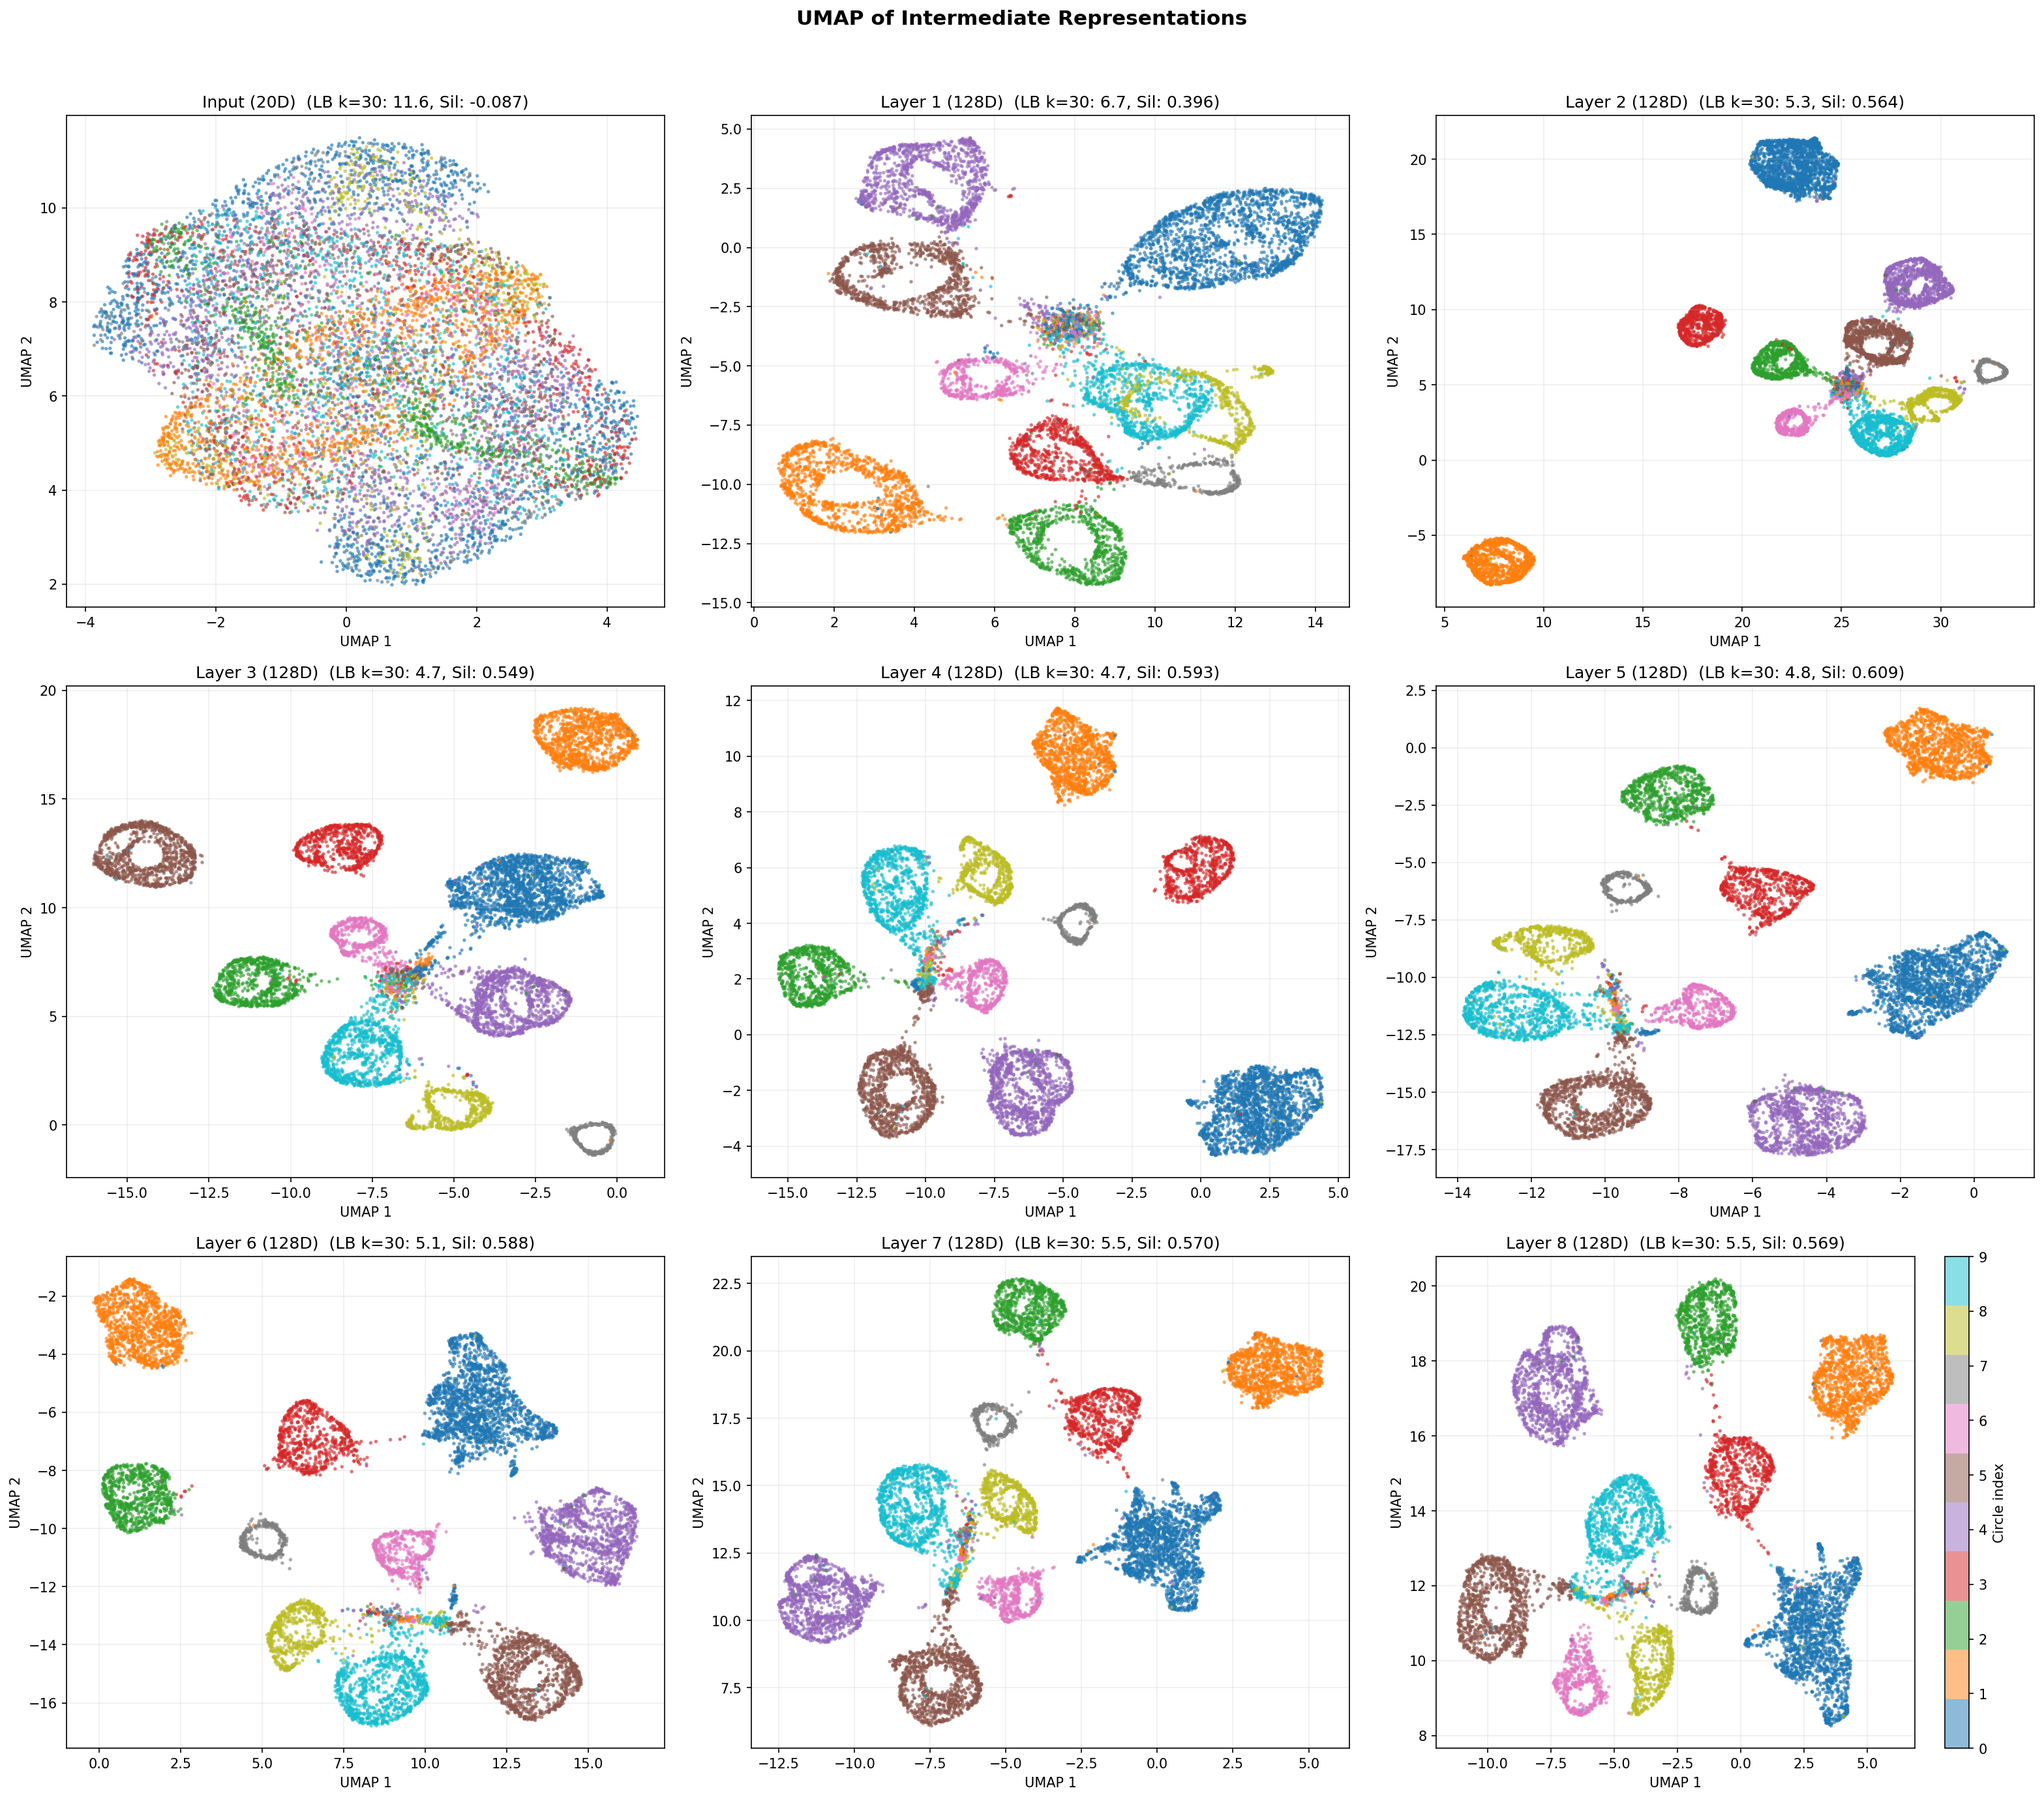
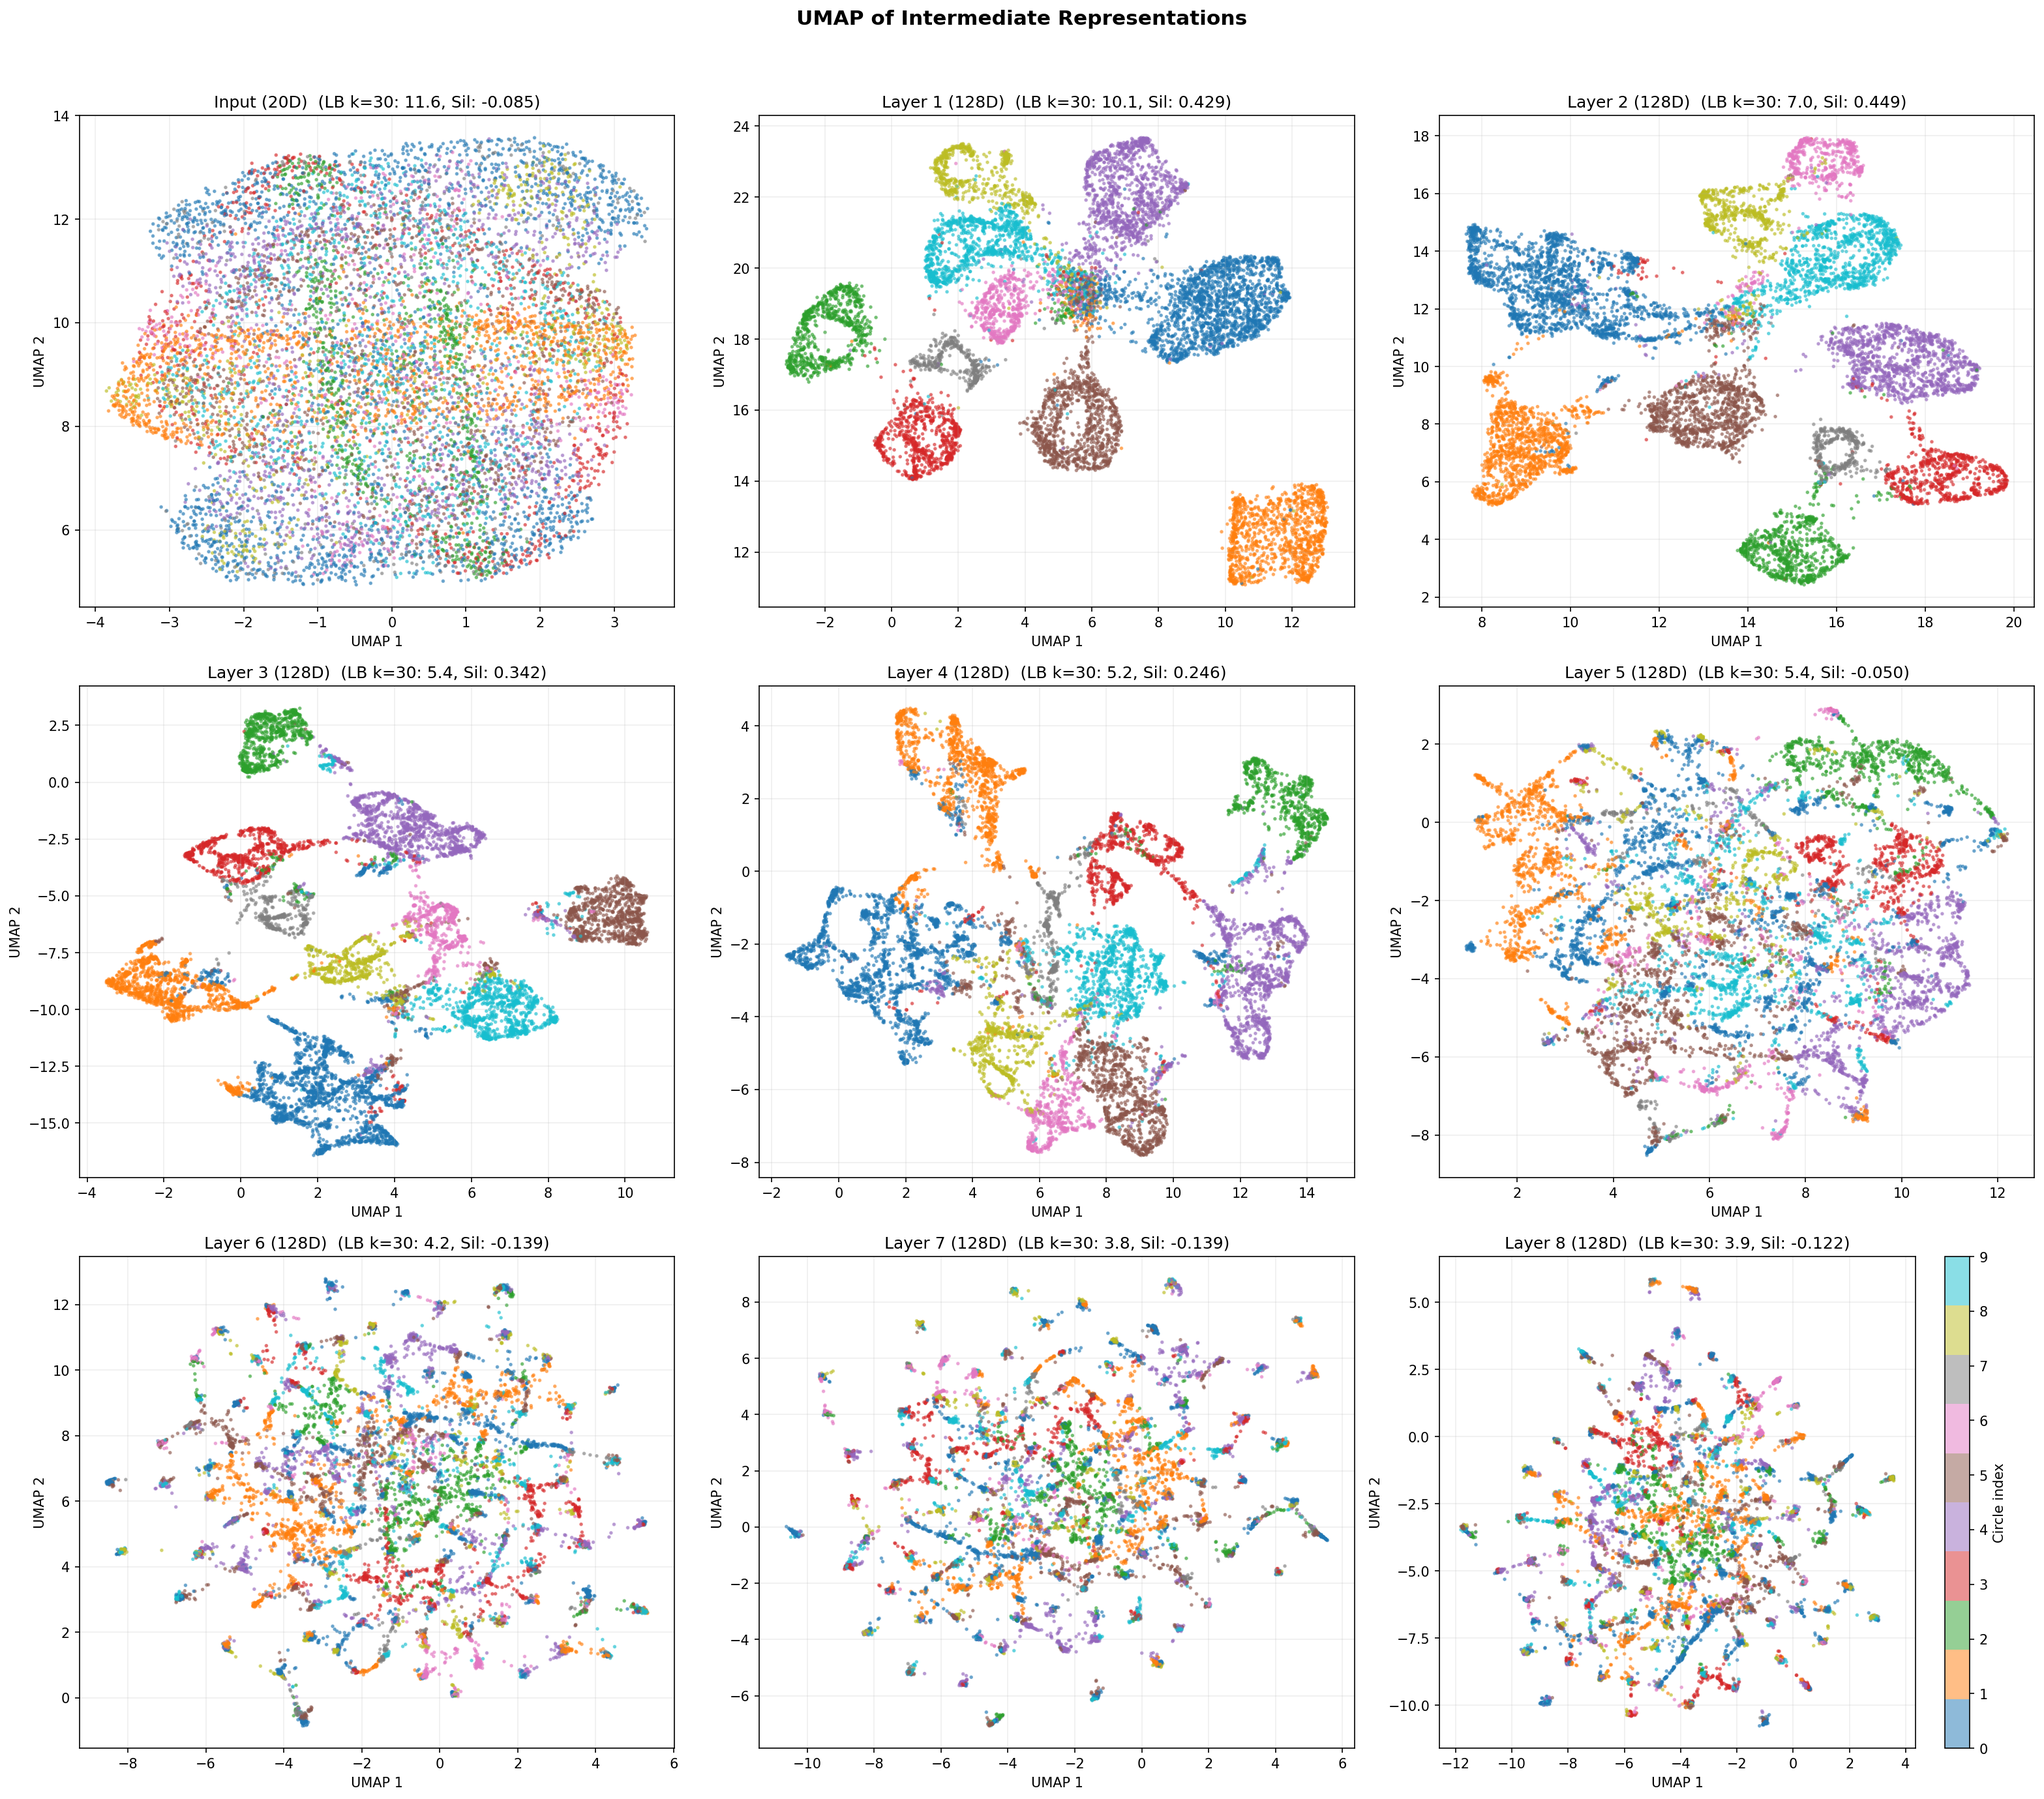
Add homeostatic pre-activation regularization to prevent overspecialization
L2 penalty on pre-norm hidden states at each Mamba layer boundary,
enabled via --preact-lambda flag. Includes README documentation of
the technique and updated UMAP from the 3000-epoch overtraining run.

Made-with: Cursor

diff --git a/mamba_jepa.py b/mamba_jepa.py
@@ -92,17 +92,29 @@ class MambaEncoder(nn.Module):
         outputs (including final norm) instead of just the final output.
         """
         h = self.input_dropout(self.input_proj(x))
+        self._cached_hiddens = []
         if not return_all_layers:
             for layer in self.layers:
                 h = layer(h)
+                self._cached_hiddens.append(h)
             return self.final_norm(h)
 
         outputs = []
         for layer, norm in zip(self.layers, self.layer_norms):
             h = layer(h)
+            self._cached_hiddens.append(h)
             outputs.append(norm(h))
         outputs.append(self.final_norm(h))
         return outputs
+
+    def homeostatic_loss(self):
+        """L2 penalty on pre-norm hidden states at each layer boundary."""
+        if not self._cached_hiddens:
+            return torch.tensor(0.0)
+        total = 0.0
+        for h in self._cached_hiddens:
+            total = total + h.pow(2).mean()
+        return total / len(self._cached_hiddens)
 
     @torch.no_grad()
     def forward_layers(self, x):
@@ -184,17 +196,29 @@ class ConvBranch(nn.Module):
             h = self.conv(h)
             h = h.transpose(1, 2)
 
+        self._cached_hiddens = []
         if not return_all_layers:
             for layer in self.layers:
                 h = layer(h)
+                self._cached_hiddens.append(h)
             return self._upsample(self.norm(h), T_orig)
 
         outputs = []
         for layer, ln in zip(self.layers, self.layer_norms):
             h = layer(h)
+            self._cached_hiddens.append(h)
             outputs.append(self._upsample(ln(h), T_orig))
         outputs.append(self._upsample(self.norm(h), T_orig))
         return outputs
+
+    def homeostatic_loss(self):
+        """L2 penalty on pre-norm hidden states at each layer boundary."""
+        if not self._cached_hiddens:
+            return torch.tensor(0.0)
+        total = 0.0
+        for h in self._cached_hiddens:
+            total = total + h.pow(2).mean()
+        return total / len(self._cached_hiddens)
 
     @torch.no_grad()
     def forward_layers(self, x):
@@ -273,6 +297,13 @@ class MultiScaleEncoder(nn.Module):
             fused = self.fusion(torch.cat(parts, dim=-1))
             outputs.append(fused)
         return outputs
+
+    def homeostatic_loss(self):
+        """Aggregate homeostatic loss from all branches."""
+        total = 0.0
+        for branch in self.branches:
+            total = total + branch.homeostatic_loss()
+        return total / len(self.branches)
 
     @torch.no_grad()
     def forward_layers(self, x):
@@ -487,6 +518,10 @@ class CausalMambaJEPA(nn.Module):
 
         return per_layer_preds, per_layer_targets
 
+    def homeostatic_loss(self):
+        """L2 penalty on context encoder's pre-norm hidden states."""
+        return self.context_encoder.homeostatic_loss()
+
     @torch.no_grad()
     def update_target_encoder(self, momentum):
         """EMA update: θ_target = τ · θ_target + (1 − τ) · θ_context"""
@@ -539,9 +574,10 @@ def momentum_schedule(epoch, n_epochs, base_momentum=0.996):
 # ---------------------------------------------------------------------------
 
 def train_one_epoch(model, loader, optimizer, scaler, device, amp_dtype,
-                    momentum):
+                    momentum, preact_lambda=0.0):
     model.train()
     total_loss = 0.0
+    total_homeo = 0.0
     n_batches = 0
 
     for x, _state, _mask in loader:
@@ -551,6 +587,12 @@ def train_one_epoch(model, loader, optimizer, scaler, device, amp_dtype,
             pred_reps, target_reps = model(x)
             result = jepa_loss(pred_reps, target_reps)
             loss = result[0] if isinstance(result, tuple) else result
+
+            if preact_lambda > 0:
+                raw = model._orig_mod if hasattr(model, '_orig_mod') else model
+                homeo = raw.homeostatic_loss()
+                loss = loss + preact_lambda * homeo
+                total_homeo += homeo.item()
 
         optimizer.zero_grad(set_to_none=True)
         scaler.scale(loss).backward()
@@ -566,7 +608,10 @@ def train_one_epoch(model, loader, optimizer, scaler, device, amp_dtype,
         total_loss += loss.item()
         n_batches += 1
 
-    return total_loss / max(n_batches, 1)
+    n = max(n_batches, 1)
+    if preact_lambda > 0:
+        return total_loss / n, total_homeo / n
+    return total_loss / n
 
 
 @torch.no_grad()
@@ -715,6 +760,11 @@ def main():
                              'Defaults to --n-layers for each branch.')
     parser.add_argument('--kernel-factor', type=int, default=2,
                         help='Conv kernel = kernel_factor × stride')
+    # Regularization
+    parser.add_argument('--preact-lambda', type=float, default=0.0,
+                        help='Homeostatic pre-activation L2 penalty strength '
+                             '(0 = disabled).  Penalizes hidden state magnitudes '
+                             'at each layer boundary to prevent overspecialization.')
     # EMA
     parser.add_argument('--ema-base', type=float, default=0.996,
                         help='Base EMA momentum (annealed to 1.0 via cosine)')
@@ -860,6 +910,8 @@ def main():
     print(f"  d_model={args.d_model}, d_state={args.d_state}, "
           f"d_conv={args.d_conv}, expand={args.expand}")
     print(f"  EMA base momentum: {args.ema_base}")
+    if args.preact_lambda > 0:
+        print(f"  Homeostatic pre-activation penalty: λ={args.preact_lambda}")
 
     # ---- torch.compile ----
     if not args.no_compile and device.type == 'cuda':
@@ -925,15 +977,24 @@ def main():
               f"{'TgtStd':<8} {'LR':<12} {'Mom':<8} {'Time':<8} {'Best'}")
     if args.per_layer_loss:
         header += "  Per-layer val losses"
+    if args.preact_lambda > 0:
+        header += "  Homeo"
     print(f"\n{header}")
-    print('-' * (90 + (30 if args.per_layer_loss else 0)))
+    print('-' * (90 + (30 if args.per_layer_loss else 0)
+                 + (8 if args.preact_lambda > 0 else 0)))
 
     for epoch in range(1, args.epochs + 1):
         t0 = time.perf_counter()
 
         mom = momentum_schedule(epoch, args.epochs, args.ema_base)
-        train_loss = train_one_epoch(
-            model, train_loader, optimizer, scaler, device, amp_dtype, mom)
+        train_result = train_one_epoch(
+            model, train_loader, optimizer, scaler, device, amp_dtype, mom,
+            preact_lambda=args.preact_lambda)
+        if isinstance(train_result, tuple):
+            train_loss, homeo_loss = train_result
+        else:
+            train_loss, homeo_loss = train_result, None
+
         eval_result = evaluate(model, val_loader, device, amp_dtype)
         val_loss, cos_sim, tgt_std = eval_result[:3]
         per_layer_val = eval_result[3] if len(eval_result) > 3 else None
@@ -983,6 +1044,8 @@ def main():
             if per_layer_val is not None:
                 layer_str = '  [' + ', '.join(f'{v:.4f}' for v in per_layer_val) + ']'
                 line += layer_str
+            if homeo_loss is not None:
+                line += f'  {homeo_loss:.4f}'
             print(line)
 
         if epoch % plot_every == 0 or epoch == args.epochs:

diff --git a/README.md b/README.md
@@ -391,6 +391,44 @@ python mamba_jepa.py --per-layer-loss --predictor-mlp --epochs 1000 --no-compile
 python evaluate_representations.py --checkpoint mamba_jepa_model.pt
 ```
 
+## Homeostatic Pre-Activation Regularization
+
+Extended training (e.g. 3000 epochs) causes representation **overspecialization**: the UMAP clusters collapse into stringy, tangled manifolds and silhouette scores degrade sharply (0.609 → 0.449 at Layer 2). The model overfits its temporal prediction objective at the expense of representational structure.
+
+To combat this, we implement a **homeostatic pre-activation penalty** adapted from continual learning research. The idea is to add an L2 penalty on the hidden states at each layer boundary (before LayerNorm), driving the network toward a low-magnitude resting state:
+
+```
+L_total = L_JEPA + λ * L_homeo
+
+L_homeo = (1/L) Σ_l mean(h_l²)
+```
+
+where `h_l` is the hidden state after the `l`-th Mamba layer (before LayerNorm), and `L` is the number of layers.
+
+### Why pre-activation (not weights or post-norm)?
+
+- **Weight decay** shrinks weights globally without regard to activation magnitudes.
+- **Post-norm penalties** miss the information about how far the raw activations drift.
+- **Pre-activation penalties** directly constrain the residual stream magnitude, preventing the hidden states from drifting to extreme values over long training. The gradient is bidirectional: strongly positive activations are pushed down, strongly negative ones are pushed up, and near-zero activations receive minimal gradient.
+
+### Usage
+
+```bash
+# Enable with --preact-lambda (default 0 = disabled)
+python mamba_jepa.py --strides 4 --predictor-mlp --epochs 1000 \
+    --no-compile --stride 32 --seq-len 1024 --preact-lambda 0.001
+```
+
+The homeostatic loss is logged in a separate column during training. Start with small values (1e-4 to 1e-3) — the penalty should gently regularize without dominating the JEPA loss.
+
+### Implementation
+
+The penalty is computed at each encoder layer boundary:
+- `MambaEncoder`: caches hidden states after each Mamba layer
+- `ConvBranch`: same caching in the convolutional branch path
+- `MultiScaleEncoder`: averages homeostatic loss across all branches
+- `CausalMambaJEPA.homeostatic_loss()`: delegates to the context encoder (target encoder has no gradients)
+
 ## Summary of Best Results
 
 | Model | Data | Epochs | seq_len | Peak Silhouette |
